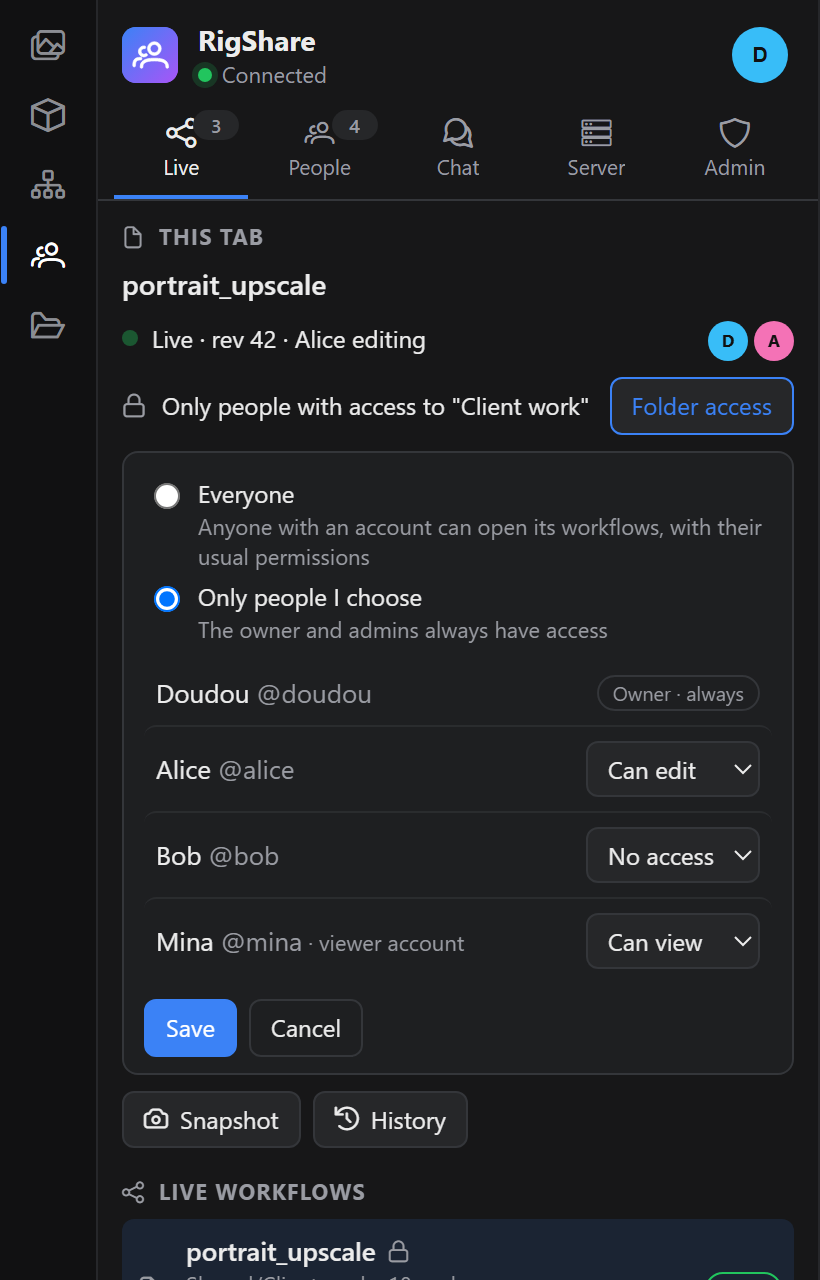
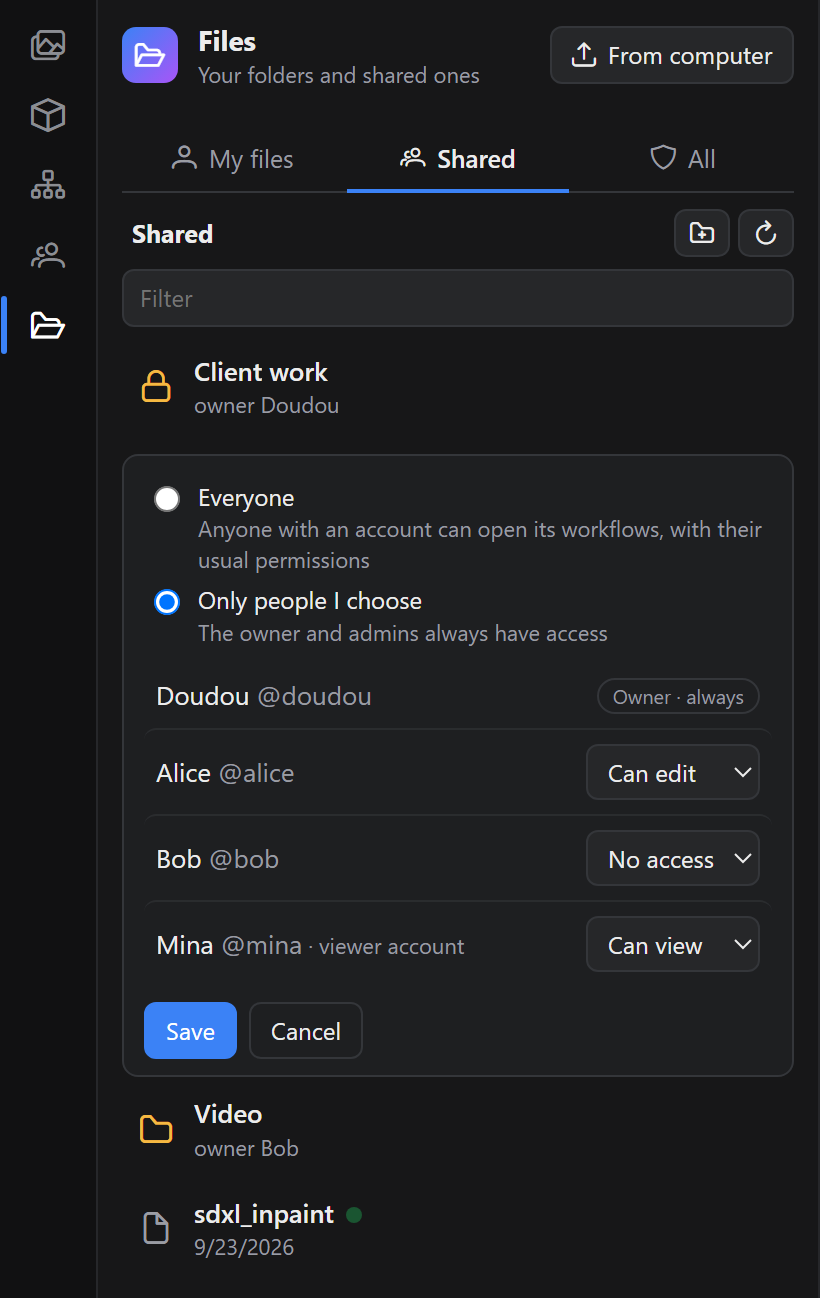
Folder access only in the Files tab; refresh screenshots
The Live tab keeps the restricted/open line but no longer edits the folder's
access list. Screenshots show the Files access editor and ComfyUI's Graph and
App icons.

diff --git a/web/rigshare/panel.js b/web/rigshare/panel.js
@@ -249,7 +249,6 @@ export class RigSharePanel {
                     : h("span", { class: "rs-live rs-muted" }, h("i", { class: "pi pi-spin pi-spinner" }), "Joining…"),
                 h("span", { class: "rs-avatars" }, ...here.map((u) => this.viewAvatar(u)))));
             body.push(this.accessLine());
-            if (this.accessOpen && s.room?.manage && s.room.folder) body.push(this.accessEditor(s.room.folder));
             if (!s.canEdit) body.push(h("p", { class: "rs-note" }, h("i", { class: "pi pi-lock" }), c.perms.edit ? "View only in this workflow." : "View only — ask an admin for edit access."));
             if (s.canEdit) {
                 row.append(h("button", {
@@ -278,7 +277,7 @@ export class RigSharePanel {
         await this.run(() => this.sync.movePath(wf.path, dest ? `workflows/${dest}/${base}` : `workflows/${base}`), "Moved: it is live now");
     }
 
-    /** Who can open the workflow on screen: that is decided by its folder. */
+    /** Who can open the workflow on screen: decided by its folder, managed in the Files tab. */
     accessLine() {
         const info = this.sync.room;
         if (!info) return null;
@@ -286,24 +285,10 @@ export class RigSharePanel {
         return h("div", { class: "rs-access" },
             h("i", { class: `pi ${info.restricted ? "pi-lock" : "pi-globe"}` }),
             h("span", { class: "rs-grow" }, info.restricted ? `Only people with access to "${folder}"` : "Everyone can open it",
-                folder && !info.restricted ? h("span", { class: "rs-muted" }, ` · in "${folder}"`) : null),
-            info.manage ? h("button", {
-                class: `rs-btn rs-btn-sm ${this.accessOpen ? "active" : ""}`, title: `Who can open the folder "${folder}"`,
-                onclick: () => { this.accessOpen = !this.accessOpen; this.accessDraft = null; this.renderBody(); },
-            }, "Folder access") : null);
+                folder && !info.restricted ? h("span", { class: "rs-muted" }, ` · in "${folder}"`) : null));
     }
 
-    accessEditor(folder) {
-        return this.accessEditorFor({
-            load: () => this.client.request("GET", `/rigshare/api/workspace/folder?path=${encodeURIComponent(folder)}`),
-            save: (restricted, members) => this.client.request("PATCH", "/rigshare/api/workspace/folders", { path: folder, restricted, members }),
-            everyoneHint: "Anyone with an account can open its workflows, with their usual permissions",
-            close: () => { this.accessOpen = false; this.accessDraft = null; this.renderBody(); },
-            draftKey: "accessDraft",
-        });
-    }
-
-    /** Access editor for a shared folder (Files tab and the live workflow's folder). */
+    /** Access editor for a shared folder (used by the Files tab). */
     accessEditorFor({ load, save, everyoneHint, close, draftKey }) {
         const box = h("div", { class: "rs-access-editor" }, h("p", { class: "rs-muted" }, "Loading…"));
         Promise.all([this.run(load), this.run(() => this.client.request("GET", "/rigshare/api/people"))]).then(([acl, people]) => {

diff --git a/docs/sharing.md b/docs/sharing.md
@@ -42,7 +42,7 @@ Viewers (no *Edit* permission) see a read-only canvas. Anything they change loca
 
 ## Who can open it
 
-Access follows the folder, not the workflow. To keep a workflow to some people, put it in a shared folder and restrict the folder: in the Files tab (🔒 on the folder), or with **Folder access** under *This tab* when the workflow on screen is in a folder you own. Choose *Only people I choose* and give each person **Can view** or **Can edit**.
+Access follows the folder, not the workflow. To keep a workflow to some people, put it in a shared folder and restrict the folder in the Files tab (🔒 on the folder). *This tab* shows whether the workflow on screen is in a restricted folder. Choose *Only people I choose* and give each person **Can view** or **Can edit**.
 
 - Workflows at the top level of Shared (not in a folder) can be opened by everyone with an account, with their usual permissions.
 - The folder's owner (whoever created it) and admins always have access.

diff --git a/CHANGELOG.md b/CHANGELOG.md
@@ -7,6 +7,7 @@
 - App mode: live workflows work in ComfyUI's App view. Each person keeps their own graph or App view through live edits, and App inputs sync. Cursors are off in the App view. Workflows saved as Apps (`.app.json`) show with an app icon in Files and in the Live list, and Save keeps them Apps
 - In the App view, where ComfyUI shows only its own sidebar tabs, RigShare adds **RigShare** and **Files** buttons to that sidebar, with the unread chat badge. They open the panels in a drawer beside it
 - The Live tab and People show whether each person is in the node graph or the App view, with ComfyUI's own Graph and App icons
+- Folder access is managed only in the Files tab. *This tab* in the Live tab still says whether the folder is restricted
 - ComfyUI's own Workflows and Apps sidebar tabs are hidden, since Files replaces them, and their shortcuts open Files. Admin setting `hide_comfy_file_tabs`, on by default
 
 ## 1.1.0 (2026-09-26)
